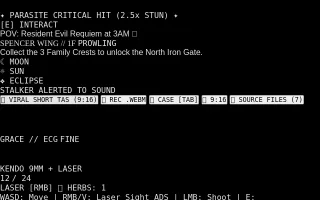
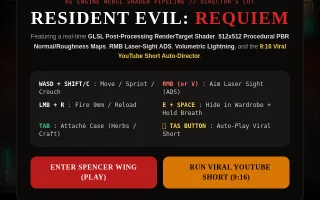
Brad Demos: ship tuned Requiem FINAL

diff --git a/brad-demos/g/re-requiem/index.html b/brad-demos/g/re-requiem/index.html
@@ -91,11 +91,11 @@ const post = new THREE.ShaderMaterial({
     float l=dot(col,vec3(.299,.587,.114));
     col=mix(col*vec3(.78,.92,1.12),col*vec3(1.12,.98,.84),smoothstep(.05,.6,l));
     col=mix(vec3(l),col,1.-slow*.6);
-    col*=1.25;col=col/(1.+col*.35);
+    col*=1.5;col=col/(1.+col*.3);
     col*=1.-dot(c,c)*(1.25+scare*1.6+slow);
     col+=(rnd(uv*res+fract(time*7.3))-.5)*.075;
     col=mix(col,vec3(.45,0.,0.),hurt*.55*smoothstep(.15,.75,length(c)));
-    col+=flash*vec3(.55,.65,.85)*.3;
+    col+=flash*vec3(.55,.65,.85)*.12;
     col*=1.-fade;
     vec4 h=texture2D(tHud,vUv);col=mix(col,h.rgb,h.a);
     gl_FragColor=vec4(col,1.);
@@ -262,7 +262,7 @@ function onWall(c, r, dx, dz, off, y) { // position on wall face, rotation facin
 function addCandle(x, y, z, light) {
   cyl(.035, .04, .26, M.wax, x, y + .13, z, 6);
   const f = new THREE.Mesh(new THREE.SphereGeometry(.035, 6, 6), M.flame); f.scale.y = 1.9; f.position.set(x, y + .31, z); world.add(f); flames.push(f);
-  if (light) { const L = new THREE.PointLight(0xff9a40, 1.3, 7.5, 2); L.position.set(x, y + .45, z); world.add(L); candleLights.push(L); }
+  if (light) { const L = new THREE.PointLight(0xff9a40, 1.9, 10, 2); L.position.set(x, y + .45, z); world.add(L); candleLights.push(L); }
 }
 let lit = 0;
 faces.forEach(([c, r, dx, dz], i) => {
@@ -337,15 +337,16 @@ const crests = findCh('C').map(([c, r], i) => {
 const pickups = [[2, 10], [12, 4], [8, 1], [1, 7]].map(([c, r]) => { const g = box(.4, .25, .3, new THREE.MeshStandardMaterial({ color: 0x3a4a2a, roughness: .7 }), cx(c) + .9, .13, cz(r) + .9); return { g, taken: false, x: cx(c) + .9, z: cz(r) + .9 }; });
 
 // lights
-const amb = new THREE.HemisphereLight(0x303850, 0x100806, .32); scene.add(amb);
+const amb = new THREE.HemisphereLight(0x3a4560, 0x1a0e08, .72); scene.add(amb);
 const moonDir = new THREE.DirectionalLight(0x8090c0, 0); moonDir.position.set(-20, 30, 20); scene.add(moonDir);
-const flashlight = new THREE.SpotLight(0xfff0dc, 2.6, 26, .52, .45, 1.6);
+const flashlight = new THREE.SpotLight(0xfff0dc, 3.4, 30, .55, .45, 1.4);
 flashlight.castShadow = true; flashlight.shadow.mapSize.set(1024, 1024); flashlight.shadow.bias = -.0008; flashlight.shadow.camera.near = .3; flashlight.shadow.camera.far = 26;
 camera.add(flashlight); flashlight.position.set(.25, -.2, .1); camera.add(flashlight.target); flashlight.target.position.set(0, -.05, -5);
 const lightning = new THREE.PointLight(0xa8c0ff, 0, 40, 1.5); scene.add(lightning);
+const hideLight = new THREE.PointLight(0xffa860, 0, 9, 2); scene.add(hideLight);
 // gun (view model) + laser
 const gun = new THREE.Group(); camera.add(gun); gun.position.set(.24, -.24, -.5);
-{ const gm = new THREE.MeshStandardMaterial({ color: 0x18181a, metalness: .8, roughness: .35 }); box(.06, .07, .3, gm, 0, 0, 0, gun); box(.05, .14, .07, gm, 0, -.09, .09, gun).rotation.x = -.25; box(.03, .03, .05, gm, 0, -.01, -.17, gun);
+{ const gm = new THREE.MeshBasicMaterial({ color: 0x17171a }); const gh = new THREE.MeshBasicMaterial({ color: 0x3a3a42 }); box(.062, .012, .3, gh, 0, .037, 0, gun); box(.06, .07, .3, gm, 0, 0, 0, gun); box(.05, .14, .07, gm, 0, -.09, .09, gun).rotation.x = -.25; box(.03, .03, .05, gm, 0, -.01, -.17, gun);
   const lm = new THREE.MeshBasicMaterial({ color: 0xff2020 }); box(.025, .025, .06, lm, 0, -.05, -.1, gun); }
 gun.traverse(o => o.castShadow = false);
 const muzzle = new THREE.PointLight(0xffc070, 0, 8, 2); gun.add(muzzle); muzzle.position.set(0, 0, -.3);
@@ -356,7 +357,7 @@ const dotLight = { intensity: 0 };
 
 // ============================================================ stalker model
 const stalker = (() => {
-  const skin = new THREE.MeshStandardMaterial({ color: 0x8a8578, roughness: .75 });
+  const skin = new THREE.MeshStandardMaterial({ color: 0x8c8474, roughness: .7 });
   const coat = new THREE.MeshStandardMaterial({ color: 0x141210, roughness: .65, metalness: .1 });
   const dark = new THREE.MeshStandardMaterial({ color: 0x0b0a09, roughness: .9 });
   const eyeM = new THREE.MeshBasicMaterial({ color: 0xff2a10 });
@@ -376,15 +377,16 @@ const stalker = (() => {
   const head = new THREE.Group(); head.position.y = .25; neck.add(head);
   const skull = mk(new THREE.SphereGeometry(.2, 14, 12), skin, head, 0, .14, 0); skull.scale.set(.9, 1.25, 1);
   mk(new THREE.SphereGeometry(.07, 8, 8), skin, head, -.06, .13, .16).scale.set(1, .5, .6); mk(new THREE.SphereGeometry(.07, 8, 8), skin, head, .06, .13, .16).scale.set(1, .5, .6); // brow
-  const eyes = [-1, 1].map(s => mk(new THREE.SphereGeometry(.028, 8, 8), eyeM, head, s * .07, .09, .17));
+  const eyes = [-1, 1].map(s => mk(new THREE.SphereGeometry(.04, 8, 8), eyeM, head, s * .07, .09, .165));
   const jaw = new THREE.Group(); jaw.position.set(0, .02, .02); head.add(jaw); mk(new THREE.BoxGeometry(.2, .07, .2), skin, jaw, 0, -.04, .06);
   for (let i = 0; i < 6; i++) { mk(new THREE.ConeGeometry(.012, .05, 4), teeth, jaw, -.075 + i * .03, .01, .15); mk(new THREE.ConeGeometry(.012, .05, 4), teeth, head, -.075 + i * .03, -.01, .16).rotation.x = Math.PI; }
-  mk(new THREE.BoxGeometry(.22, .02, .02), dark, head, 0, .0, .18); // stitched mouth line
+  for (const s2 of [-1, 1]) { const so = mk(new THREE.SphereGeometry(.055, 8, 8), dark, head, s2 * .07, .09, .145); so.scale.set(1.2, 1, .5); } // sunken sockets
+  for (let i = 0; i < 5; i++) mk(new THREE.BoxGeometry(.008, .05, .01), dark, head, -.06 + i * .03, -.0, .185); // stitches
   const arms = [-1, 1].map(s => { const sh = new THREE.Group(); sh.position.set(s * .4, .92, 0); spine.add(sh); mk(new THREE.SphereGeometry(.13, 8, 8), coat, sh);
     mk(new THREE.CylinderGeometry(.09, .07, .78, 8), coat, sh, 0, -.39, 0); const el = new THREE.Group(); el.position.y = -.78; sh.add(el); mk(new THREE.CylinderGeometry(.065, .05, .74, 8), skin, el, 0, -.37, 0);
     const hand = new THREE.Group(); hand.position.y = -.76; el.add(hand); mk(new THREE.BoxGeometry(.1, .14, .06), skin, hand, 0, -.05, 0);
     for (let f = 0; f < 4; f++) { const cl = mk(new THREE.ConeGeometry(.014, .2, 4), dark, hand, -.04 + f * .027, -.2, .01); cl.rotation.x = Math.PI; } return { sh, el, hand }; });
-  const eyeLight = new THREE.PointLight(0xff2000, .5, 3, 2); head.add(eyeLight); eyeLight.position.set(0, .1, .3);
+  const eyeLight = new THREE.PointLight(0xff2000, 1.2, 4, 2); head.add(eyeLight); eyeLight.position.set(0, .1, .3);
   const hitHead = skull, hitBody = [];
   root.traverse(o => { if (o.isMesh && o !== skull) hitBody.push(o); });
   return { root, body, hips, spine, neck, head, jaw, legs, arms, eyes, eyeLight, hitHead, hitBody, skin,
@@ -585,10 +587,10 @@ function update(dt) {
   G.flashT -= dt; if (G.flashT < 0 && G.mode !== 'title') { G.flashT = 9 + Math.random() * 10; if (!DEMO) lightningStrike(.8); }
   if (G.flashLeft > 0) { G.flashLeft -= dt; const f = G.flashLeft; G.flash = (f > .42 || (f > .2 && f < .3)) ? 1 : Math.max(0, G.flash - dt * 6); } else G.flash = Math.max(0, G.flash - dt * 4);
   if (G.flash < .05) portraits.forEach(m => m.emissive.setHex(0));
-  drawRain(dt, G.flash > .5); scene.fog.density = .055 - G.flash * .03;
-  lightning.intensity = G.flash * 5; lightning.position.set(-6, 3, cz(6)); moonDir.intensity = G.flash * 1.6; amb.intensity = .32 + G.flash * .9;
+  drawRain(dt, G.flash > .5); scene.fog.density = .045 - G.flash * .025;
+  lightning.intensity = G.flash * 5; lightning.position.set(-6, 3, cz(6)); moonDir.intensity = G.flash * 1.1; amb.intensity = .72 + G.flash * .45;
   // candles flicker
-  const tt = G.time; candleLights.forEach((L, i) => L.intensity = 1.15 + Math.sin(tt * 11 + i * 3) * .12 + Math.sin(tt * 23.7 + i) * .1 + (Math.random() - .5) * .08);
+  const tt = G.time; candleLights.forEach((L, i) => L.intensity = 1.9 + Math.sin(tt * 11 + i * 3) * .12 + Math.sin(tt * 23.7 + i) * .1 + (Math.random() - .5) * .08);
   flames.forEach((f, i) => { f.scale.x = 1 + Math.sin(tt * 17 + i) * .15; f.scale.y = 1.9 + Math.sin(tt * 13 + i * 2) * .3; });
   crests.forEach((k, i) => { k.cr.rotation.y += dt * 1.5; k.inner.rotation.y -= dt * 2; k.cr.position.y = 1.35 + Math.sin(tt * 2 + i) * .06; k.L.intensity = .8 + Math.sin(tt * 3 + i) * .25; });
   if (gateOpen) { gate.lift = Math.min(1, gate.lift + dt * .45); gate.bars.position.y = gate.lift * 3.3; gate.moon.material.color.setHex(0x5a78b0); gate.light.intensity = 1.6; }
@@ -613,6 +615,7 @@ function updatePlayer(dt) {
   if (G.hiding) { G.hideT += dt; G.holding = !!(keys.Space || touch.breath || G.autoBreath);
     if (G.holding) { G.breath -= dt * .2; if (G.breath <= 0) { G.breath = 0; G.holding = false; audio.play('gasp'); G.gaspT = 1.2; } } else G.breath = Math.min(1, G.breath + dt * .3);
     if (G.gaspT > 0) { G.gaspT -= dt; G.holding = false; }
+    const sdh = Math.hypot(stalker.x - G.x, stalker.z - G.z); G.heartT -= dt; if (sdh < 9 && G.heartT < 0) { G.heartT = G.holding ? .42 : .6; audio.play('heart', { v: G.holding ? 1 : .7 }); }
     return; }
   let fx = 0, fz = 0; if (!G.auto) { if (keys.KeyW || keys.ArrowUp) fz -= 1; if (keys.KeyS || keys.ArrowDown) fz += 1; if (keys.KeyA) fx -= 1; if (keys.KeyD) fx += 1;
     if (keys.ArrowLeft) G.yaw += dt * 2.3; if (keys.ArrowRight) G.yaw -= dt * 2.3; fx += touch.mx; fz += touch.mz; } else { fx = G.auto.fx; fz = G.auto.fz; }
@@ -671,20 +674,20 @@ function updateStalker(dt) {
   if (!G.hiding && dP < 1.15 && G.mode === 'play' && !G.godmode) hurtPlayer();
   animStalker(dt, speed);
 }
-function startPeek(w) { const S = stalker; S.state = 'peek'; S.peek = w; S.peekDur = S.peekT = 4.2; S.notice = 0; audio.play('stinger', { k: .85 }); G.scare = .8; audio.play('creak'); }
+function startPeek(w) { w.peeked = true; const S = stalker; S.state = 'peek'; S.peek = w; S.peekDur = S.peekT = 4.2; S.notice = 0; audio.play('stinger', { k: .85 }); G.scare = .8; audio.play('creak'); }
 function animStalker(dt, speed) {
   const S = stalker; S.phase += dt * (1.1 + speed * 1.35);
   S.root.position.set(S.x, 0, S.z); S.root.rotation.y = S.yaw;
   const sw = Math.sin(S.phase) * Math.min(1, speed / 2.5);
   S.legs[0].up.rotation.x = sw * .7; S.legs[1].up.rotation.x = -sw * .7; S.legs[0].kn.rotation.x = Math.max(0, -Math.cos(S.phase)) * .9 * Math.min(1, speed / 2); S.legs[1].kn.rotation.x = Math.max(0, Math.cos(S.phase)) * .9 * Math.min(1, speed / 2);
-  S.hips.position.y = 1.35 + Math.abs(Math.cos(S.phase)) * .07 * Math.min(1, speed) - S.kneel * .6;
+  S.hips.position.y = 1.35 + Math.abs(Math.cos(S.phase)) * .07 * Math.min(1, speed) - S.kneel * .6 - (S.lean || 0) * .5;
   if (S.kneel > 0) { S.legs[0].up.rotation.x = -1.3 * S.kneel; S.legs[0].kn.rotation.x = 1.9 * S.kneel; S.legs[1].up.rotation.x = .2 * S.kneel; S.legs[1].kn.rotation.x = 1.6 * S.kneel; }
   const step = Math.floor(S.phase / Math.PI); if (speed > .5 && step !== S.step) { S.step = step; const d = Math.hypot(G.x - S.x, G.z - S.z); if (d < 20) audio.play('step', { heavy: true, v: Math.max(.15, 1 - d / 20) }); }
   // hunched spine, lurch, head twitch
   S.twitch -= dt; if (S.twitch < 0) { S.twitch = .4 + Math.random() * 1.6; S.tw = [(Math.random() - .5) * .9, (Math.random() - .5) * .6]; }
   const tw = S.tw || [0, 0];
-  S.spine.rotation.x = .32 + (speed > 3 ? .25 : 0) + Math.sin(S.phase * 2) * .04 + (S.lean || 0) * .55 + S.kneel * .3; S.spine.rotation.z = Math.sin(S.phase) * .06;
-  S.head.rotation.z += ((tw[0] * (speed > 3 ? .3 : 1)) - S.head.rotation.z) * Math.min(1, dt * 18); S.head.rotation.x = -.35 + tw[1] * .4 - (S.lean || 0) * .3;
+  S.spine.rotation.x = .32 + (speed > 3 ? .25 : 0) + Math.sin(S.phase * 2) * .04 + (S.lean || 0) * .85 + S.kneel * .3; S.spine.rotation.z = Math.sin(S.phase) * .06;
+  S.head.rotation.z += ((tw[0] * (speed > 3 ? .3 : 1)) - S.head.rotation.z) * Math.min(1, dt * 18); S.head.rotation.x = -.35 + tw[1] * .4 * (1 - (S.lean || 0)) - (S.lean || 0) * .75;
   // head tracks the player
   const toP = Math.atan2(G.x - S.x, G.z - S.z) - S.yaw; S.neck.rotation.y = Math.max(-.9, Math.min(.9, Math.atan2(Math.sin(toP), Math.cos(toP))));
   const roar = S.roar > 0 || S.scream > 0 || S.state === 'grab' || S.state === 'reveal';
@@ -703,18 +706,19 @@ function updateCamera(dt) {
   let x = G.x, z = G.z, y = 1.62, yaw = G.yaw, pitch = G.pitch;
   if (G.mode === 'play' && !G.hiding) { y += Math.sin(G.bob) * (G.run ? .07 : .04); }
   if (G.hiding) { y = 1.55; }
-  if (G.mode === 'caught' || (G.mode === 'dead' && G.endT < .4)) { // snap to the stalker's face
+  if (G.mode === 'caught' || G.mode === 'dead') { // snap to the stalker's face
     const S = stalker; const hp = new THREE.Vector3(); S.head.getWorldPosition(hp);
-    const k = Math.min(1, G.faceT * 5); const dx = hp.x - G.x, dz = hp.z - G.z; const d = Math.hypot(dx, dz) || 1;
-    const fx = hp.x - dx / d * .55, fz = hp.z - dz / d * .55; x += (fx - x) * k; z += (fz - z) * k; y += (hp.y + .1 - y) * k;
+    const k = Math.min(1, G.faceT * 5); const sy = S.yaw + S.neck.rotation.y;
+    const fx = hp.x + Math.sin(sy) * .62, fz = hp.z + Math.cos(sy) * .62; x += (fx - x) * k; z += (fz - z) * k; y += (hp.y + .1 - y) * k;
     camera.position.set(x, y, z); camera.lookAt(hp.x, hp.y + .12, hp.z); camera.rotateZ(Math.sin(G.time * 31) * .05 * (1 - k * .3));
   } else {
     camera.position.set(x, y, z); camera.rotation.set(0, 0, 0, 'YXZ'); camera.rotation.order = 'YXZ'; camera.rotation.y = yaw; camera.rotation.x = pitch + G.recoil * .04;
   }
   if (G.shake > 0) { camera.position.x += (Math.random() - .5) * G.shake * .12; camera.position.y += (Math.random() - .5) * G.shake * .12; }
   camera.fov = (W < H ? 84 : 68) - G.adsK * 14 + G.scare * 6; camera.updateProjectionMatrix();
-  flashlight.visible = G.light && !G.hiding; flashlight.intensity = 2.6 * (G.flash > .5 ? .6 : 1);
-  gun.visible = G.mode === 'play' && !G.hiding; gun.position.set(.24 - G.adsK * .24, -.24 + G.adsK * .1 + Math.sin(G.bob) * .01, -.5 + G.recoil * .06); gun.rotation.x = G.recoil * .3;
+  flashlight.visible = G.light && !G.hiding;
+  if (G.hiding) { const w = G.hiding; hideLight.position.set(w.inside.x + w.dx * 1.2, 1.7, w.inside.z + w.dz * 1.2); hideLight.intensity = 4.5 + Math.sin(G.time * 13) * .4; hideLight.distance = 6; } else hideLight.intensity = 0; flashlight.intensity = 3.4 * (G.flash > .5 ? .6 : 1) * (G.mode === 'caught' || G.mode === 'dead' ? .3 : 1);
+  gun.visible = G.mode === 'play' && !G.hiding; gun.position.set(.24 - G.adsK * .2, -.24 + G.adsK * .03 + Math.sin(G.bob) * .01, -.5 - G.adsK * .1 + G.recoil * .06); gun.rotation.x = G.recoil * .3;
   // laser sight
   laser.visible = laserDot.visible = G.ads && gun.visible; dotLight.intensity = laser.visible ? 1.2 : 0;
   if (laser.visible) { camera.updateMatrixWorld(); const o = new THREE.Vector3(); gun.localToWorld(o.set(0, -.05, -.12)); const d = new THREE.Vector3(); camera.getWorldDirection(d);
@@ -728,8 +732,8 @@ function drawHUD() {
   g.textAlign = 'center'; g.textBaseline = 'middle';
   if (G.mode === 'title') return;
   if (G.hiding) { // wardrobe slats
-    const gap = 40 * s, bar = 56 * s; g.fillStyle = 'rgba(4,2,1,.97)'; for (let y = -((G.time * 0) % 1); y < h; y += gap + bar) g.fillRect(0, y, w, bar);
-    const gr = g.createRadialGradient(w / 2, h / 2, Math.min(w, h) * .2, w / 2, h / 2, Math.max(w, h) * .7); gr.addColorStop(0, 'rgba(0,0,0,0)'); gr.addColorStop(1, 'rgba(0,0,0,.92)'); g.fillStyle = gr; g.fillRect(0, 0, w, h);
+    const gap = 46 * s, bar = 30 * s; g.fillStyle = 'rgba(6,3,2,.93)'; for (let y = -((G.time * 0) % 1); y < h; y += gap + bar) g.fillRect(0, y, w, bar);
+    const gr = g.createRadialGradient(w / 2, h / 2, Math.min(w, h) * .2, w / 2, h / 2, Math.max(w, h) * .7); gr.addColorStop(0, 'rgba(0,0,0,0)'); gr.addColorStop(1, 'rgba(0,0,0,.7)'); g.fillStyle = gr; g.fillRect(0, 0, w, h);
     // breath meter
     const bw = Math.min(w * .6, 420 * s), bx = (w - bw) / 2, by = h * (port ? .78 : .84); g.fillStyle = 'rgba(0,0,0,.6)'; g.fillRect(bx - 4, by - 4, bw + 8, 22 * s + 8);
     g.fillStyle = G.breath < .3 ? '#d22' : G.holding ? '#8ab4ff' : '#888'; g.fillRect(bx, by, bw * G.breath, 22 * s); font(15, 'Courier New,monospace'); g.fillStyle = '#eee';
@@ -787,14 +791,14 @@ function setupDemo(name) {
   resetGame(); titleEl.style.display = 'none'; G.scripted.hallReveal = G.scripted.doorBurst = true; G.godmode = true; G.flashT = 999;
   const S = stalker; const put = (c, r, dx = 0, dz = 0) => { S.x = cx(c) + dx; S.z = cz(r) + dz; };
   if (name === 'lightning') { // hallway, lightning reveal at the window end
-    G.x = cx(6); G.z = cz(7); G.yaw = Math.PI / 2; put(13, 11); S.state = 'scripted';
+    G.x = cx(4); G.z = cz(7); G.yaw = Math.PI / 2 - .12; put(13, 11); S.state = 'scripted';
     runScript([wait(.35, () => { G.auto = { fx: 0, fz: -1 }; }), once(() => { G.auto = null; hallRevealAt(1, 6); caption('DON\'T LOOK AT\nTHE WINDOW', 2.4); }), wait(1.6), once(() => { S.state = 'chase'; G.godmode = false; }),
       wait(2.6, () => { lookAtPt(S.x, S.z, .1, 2.2); }), once(() => { caption('RUN.', 1.5, '#ff4040'); }), (el) => { autoWalk({ x: cx(7), z: cz(10) }, true); return el > 2.2; }, wait(99)]);
   }
   if (name === 'door') { // door burst
-    G.x = cx(7); G.z = cz(10.3); G.yaw = Math.PI * .5 + .05; put(1, 10); S.state = 'scripted'; G.ammo = 8;
+    G.x = cx(6) + 1; G.z = cz(10) + .4; G.yaw = Math.PI * .5 + .05; put(1, 10); S.state = 'scripted'; G.ammo = 8;
     runScript([wait(.5, () => { G.auto = { fx: 0, fz: -.35 }; }), once(() => { G.auto = null; burstDoor(doors.find(d => d.c === 4 && d.r === 10), true); caption('IT CAME\nTHROUGH THE DOOR', 2.6, '#ff4040'); G.godmode = true; }),
-      wait(1.2, (el) => lookAtPt(stalker.x, stalker.z, .2, 2.0)), (el) => { autoWalk({ x: cx(7), z: cz(7) }, true); return el > 2.4; }, wait(99)]);
+      wait(3.5, (el) => { lookAtPt(stalker.x, stalker.z, .2, 2.0); G.auto = { fx: 0, fz: .5 }; }), wait(99, () => { G.auto = { fx: 0, fz: 0 }; })]);
   }
   if (name === 'peek' || name === 'wardrobe') { // hide + peek + hold breath near miss
     const w = wardrobes.find(w => w.c === 9 && w.r === 1); G.x = w.front.x - 1.5; G.z = w.front.z + 2.6; G.yaw = 0; put(7, 7); S.state = 'scripted'; G.autoBreath = false;
@@ -813,12 +817,12 @@ function setupDemo(name) {
   }
   if (name === 'laser') { // crit escape run: 3 crests in hand, stalker chasing, turn, laser headshot, run through the gate
     G.crests = 3; crests.forEach(k => { k.taken = true; k.g.visible = false; }); gate.slots.forEach((s, i) => s.material.emissive.setHex(crests[i].col)); gateOpen = true; gate.lift = .9; G.ammo = 6;
-    G.x = cx(7); G.z = cz(7); G.yaw = Math.PI / 2; put(12, 7); S.state = 'chase'; S.lastSeen = { x: G.x, z: G.z }; G.godmode = true;
+    G.x = cx(7); G.z = cz(7); G.yaw = Math.PI / 2; put(10, 7); S.state = 'chase'; S.lastSeen = { x: G.x, z: G.z }; G.godmode = true;
     runScript([once(() => { caption('3 CRESTS.\nONE WAY OUT.', 2.2); audio.play('scream', { v: 1 }); S.roar = .6; G.scare = .6; }),
       (el) => { lookAtPt(S.x, S.z, .2, 2.0); return el > .9; },
-      (el) => { autoWalk({ x: cx(2), z: cz(5) }, true); if (el > .6) S.lastSeen = { x: G.x, z: G.z }; return el > 2.6; },
+      (el) => { autoWalk({ x: cx(3), z: cz(6) }, true); if (el > .6) S.lastSeen = { x: G.x, z: G.z }; return el > 1.5; },
       once(() => { G.forceAds = true; caption('LASER ON', 1.4, '#ff4040'); }),
-      (el) => { const hp = new THREE.Vector3(); stalker.head.getWorldPosition(hp); lookAtPt(hp.x, hp.z, .25, hp.y + .12); S.lastSeen = { x: G.x, z: G.z }; return el > 1.3 && (G.laserOnHead || el > 2.4); },
+      (el) => { const hp = new THREE.Vector3(); stalker.head.getWorldPosition(hp); lookAtPt(hp.x, hp.z, .25, hp.y + .12); S.lastSeen = { x: G.x, z: G.z }; return el > 1.9 && (G.laserOnHead || el > 2.8); },
       once(() => { G.forceAds = false; G.fired = -9; const hp = new THREE.Vector3(); stalker.head.getWorldPosition(hp); G.ads = true; fire(); if (stalker.crit <= 0) { stalker.crit = stalker.stun = 3.4; stalker.state = 'stunned'; audio.play('crit'); big('CRITICAL', 1.4); G.slow = 1; G.slowT = .9; spawnBlood(hp, 26); } caption('HEADSHOT', 1.6, '#ffd23a'); }),
       wait(1.4), (el) => { autoWalk({ x: cx(gate.c), z: cz(gate.r) + .2 }, true); if (G.mode === 'win') return true; return el > 6; }, once(() => caption('ESCAPED', 3, '#e6c35c')), wait(99)]);
   }
